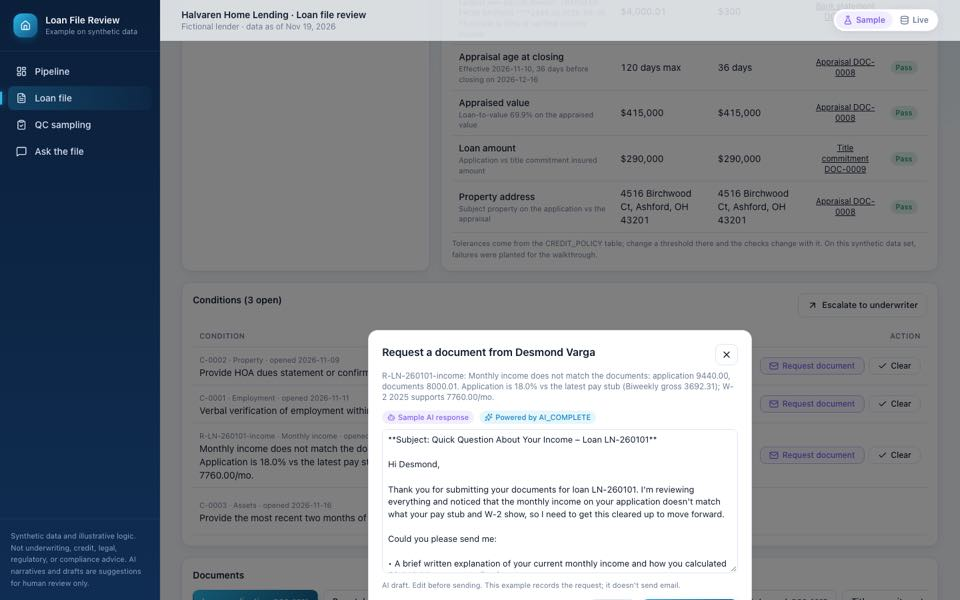
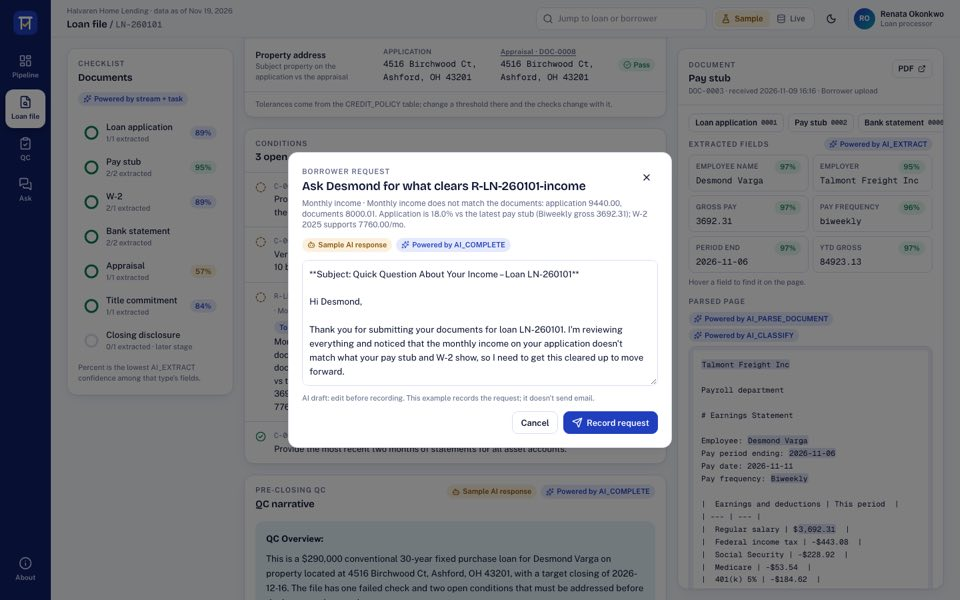
Capture v2 screenshots and catalog cards; fix overlay stacking
Generated with [Snowflake CoCo](https://docs.snowflake.com/en/user-guide/cortex-code/cortex-code)

diff --git a/app/loan/page.tsx b/app/loan/page.tsx
@@ -148,7 +148,7 @@ function RequestDialog({ file, cond, onClose, onSent }: { file: LoanFile; cond: 
           <div className="rounded-xl border p-3 text-[13.5px] leading-relaxed whitespace-pre-wrap caret" style={{ borderColor: 'var(--line)', minHeight: 220 }}>{shown}</div>
         ) : (
           <>
-            <textarea className="input w-full text-[13.5px]" rows={11} value={msg} onChange={(e) => setMsg(e.target.value)} aria-label="Message to the borrower" />
+            <textarea className="input w-full text-[13.5px]" rows={8} value={msg} onChange={(e) => setMsg(e.target.value)} aria-label="Message to the borrower" />
             <p className="text-[11px] muted mt-1">AI draft: edit before recording. This example records the request; it doesn&apos;t send email.</p>
             <div className="flex gap-2 justify-end mt-3">
               <button className="btn" onClick={onClose}>Cancel</button>

diff --git a/app/globals.css b/app/globals.css
@@ -121,8 +121,8 @@
   .prose-ai th, .prose-ai td { border: 1px solid var(--line); padding: 4px 8px; text-align: left; }
   .prose-ai .cite { font-family: var(--font-mono); font-size: 10.5px; color: var(--ai); background: var(--ai-soft); border-radius: 4px; padding: 0 4px; margin: 0 1px; }
 
-  .fade-up { animation: fadeUp .18s ease-out both; }
-  .drawer-in { animation: drawerIn .22s ease-out both; }
+  .fade-up { animation: fadeUp .18s ease-out backwards; }
+  .drawer-in { animation: drawerIn .22s ease-out backwards; }
   .caret::after { content: ""; display: inline-block; width: 7px; height: 1em; margin-left: 2px; vertical-align: -2px; background: var(--ai); animation: blink 1s steps(2) infinite; }
 
   .rail-btn { display: flex; flex-direction: column; align-items: center; gap: 4px; padding: 9px 4px; border-radius: 12px; font-size: 10.5px; font-weight: 600;
